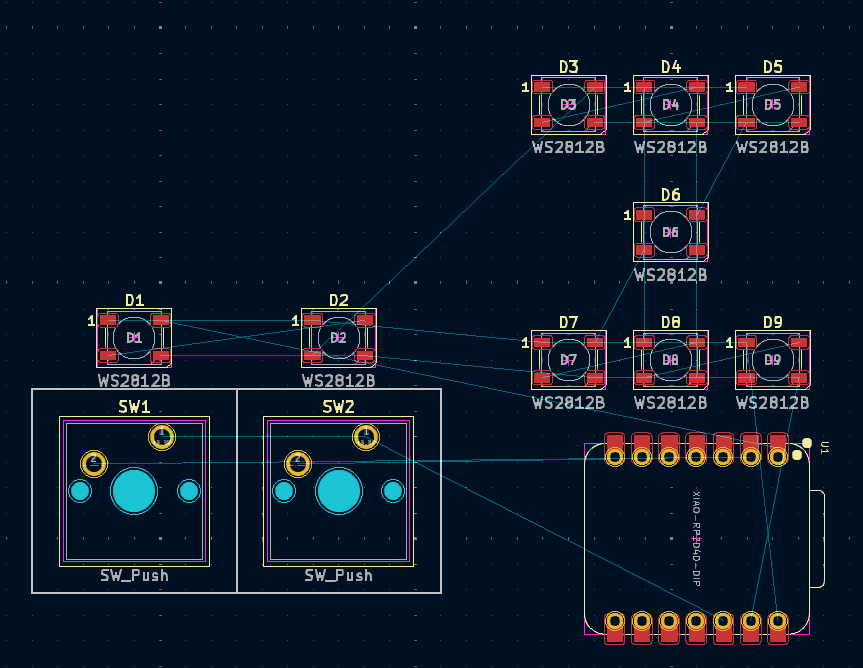
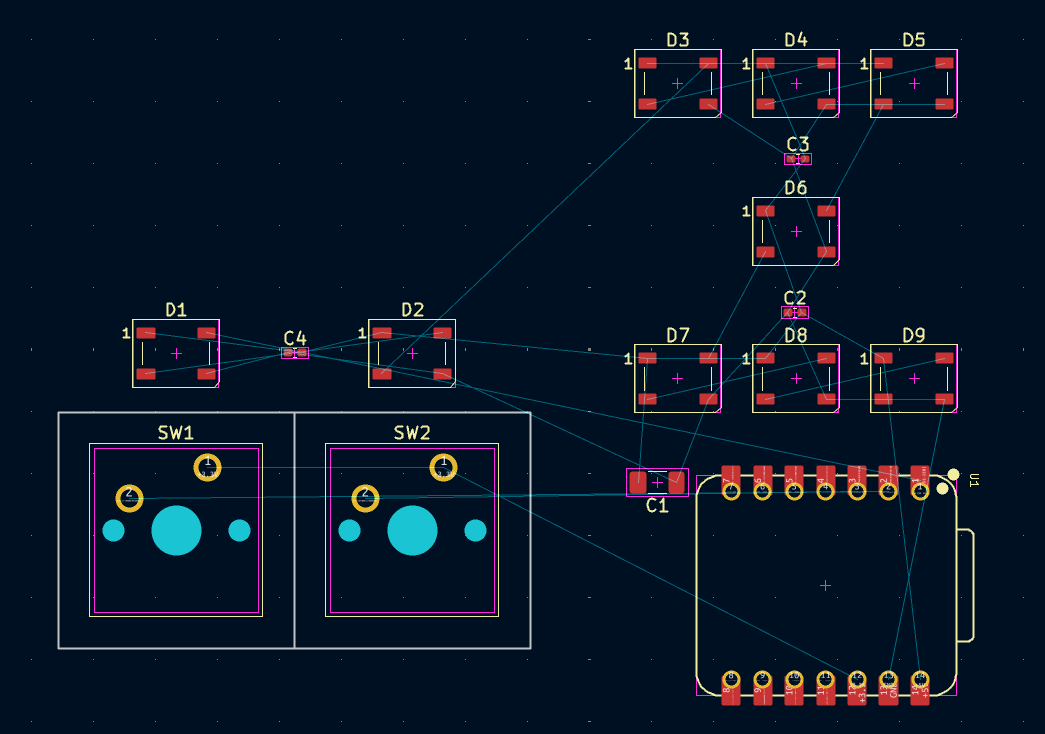
add more instructions and approved parts :fire: :fire: :fire: :fire: :fire:

diff --git a/website/src/pages/Parts.tsx b/website/src/pages/Parts.tsx
@@ -1,3 +1,5 @@
+import ALink from "../components/ALink";
+
 export default function Parts() {
   return (
     <div className="flex flex-col items-center justify-center w-full p-4 mt-16 text-xl text-black">
@@ -7,9 +9,19 @@ export default function Parts() {
 
         <h2 className="mb-2 text-xl font-semibold">MCU:</h2>
         <ul className="mb-4 list-disc list-inside">
-          <li>Xiao RP2040</li>
-          <li>Bare RP2040 (PCBA otherwise you solder)</li>
-          <li></li>
+          <li>
+            <ALink href="https://www.seeedstudio.com/XIAO-RP2040-v1-0-p-5026.html">Xiao RP2040</ALink>
+          </li>
+          <li>
+            <ALink href="https://www.seeedstudio.com/XIAO-ESP32S3-p-5627.html">Xiao ESP32-S3</ALink>
+          </li>
+          <li>ESP32-C3 Super Mini</li>
+          <li>
+            <ALink href="https://jlcpcb.com/partdetail/RaspberryPi-RP2040/C2040">Bare RP2040 (PCBA)</ALink>
+          </li>
+          <li>
+            <ALink href="https://www.aliexpress.com/item/1005006478706085.html">ESP32-S3-DevKitC-1</ALink>
+          </li>
         </ul>
 
         <h2 className="mb-2 text-xl font-semibold" id="neopixels">
@@ -19,43 +31,60 @@ export default function Parts() {
           <li>WS2812B-5050</li>
           <li>SK6812-5050</li>
           <li>SK6812MINI-EA</li>
+          <li>
+            <ALink href="https://www.lcsc.com/product-detail/RGB-LEDs-Built-in-IC_XINGLIGHT-XL-1615RGBC-WS2812B_C5349954.html">
+              XL-1615RGBC-WS2812B
+            </ALink>
+          </li>
+          <li>
+            <ALink href="https://www.lcsc.com/product-detail/RGB-LEDs-Built-in-IC_OPSCO-Optoelectronics-SKC6812RGBW-WS-B_C5380879.html?s_z=n_rgbw">
+              SKC6812RGBW-WS-B
+            </ALink>
+          </li>
         </ul>
         <p className="mb-4">* If I'm soldering: max. 50 neopixels</p>
         <p className="mb-4">* If soldering yourself: no limit but please dont go crazy with it</p>
 
         <p className="mb-4">Decoupling caps are optional but recommended.</p>
 
-        <h2 className="mb-2 text-xl font-semibold">USB PD Logic:</h2>
+        <h2 className="mb-2 text-xl font-semibold">Other misc parts:</h2>
+
+        <p className="mb-4">Generally most parts are ok for you to use, try get them from somewhere cheap like Aliexpress or LCSC.</p>
+
+        <p className="mb-4">
+          Since we are using PCBA from JLCPCB, if the parts can't be assemble with economic PCBA, you will have to solder them at home.
+        </p>
+
+        <p className="mb-4">
+          Parts below has gotten explicit permissions from mohid to use. If you want to make sure your part is ok to use, please ask in #pixeldust.
+        </p>
+
         <ul className="mb-4 list-disc list-inside">
+          <li>Resistors</li>
+          <li>Capacitors</li>
+          <li>Buttons/Switches</li>
           <li>
             A usb controller. Ex:
-            <a
-              href="https://www.lcsc.com/product-detail/USB-Converters_STMicroelectronics-STUSB4500QTR_C2678061.html?s_z=n_STUSB4500QTR"
-              target="_blank"
-              rel="noopener noreferrer"
-              className="text-blue-500 hover:underline">
-              STMicroelectronics STUSB4500QTR
-            </a>
+            <ALink href="https://jlcpcb.com/partdetail/Stmicroelectronics-STUSB4500QTR/C2678061">STMicroelectronics STUSB4500QTR</ALink>
           </li>
           <li>
             A USB C port. Ex:{" "}
-            <a
-              href="https://www.lcsc.com/product-detail/USB-Connectors_Amphenol-ICC-12402012E212A_C5150972.html?s_z=n_12402012E212A"
-              target="_blank"
-              rel="noopener noreferrer"
-              className="text-blue-500 hover:underline">
-              Amphenol ICC 12402012E212A
-            </a>
+            <ALink href="https://www.lcsc.com/product-detail/USB-Connectors_SHOU-HAN-TYPE-C-6P_C456012.html">SHOU HAN TYPE-C 6P</ALink>
           </li>
           <li>
             Buck converter to step down the voltage to 5V. Ex:{" "}
-            <a
-              href="https://www.lcsc.com/product-detail/DC-DC-Converters_Texas-Instruments-TPS568215RNNR_C473367.html"
-              target="_blank"
-              rel="noopener noreferrer"
-              className="text-blue-500 hover:underline">
-              Texas Instruments TPS568215RNNR
-            </a>
+            <ALink href="https://jlcpcb.com/partdetail/TexasInstruments-TPS54821RHLR/C57461">Texas Instruments TPS54821RHLR</ALink>
+          </li>
+          <li>AHT20 Temperature and Moisture sensor</li>
+          <li>
+            <ALink href="https://www.lcsc.com/product-detail/Accelerometers_TDK-InvenSense-ICM-42688-P_C1850418.html?s_z=n_C1850418">
+              TDK InvenSense ICM-42688-P Accelerometer gyroscope
+            </ALink>
+          </li>
+          <li>
+            <ALink href="https://www.lcsc.com/product-detail/Pressure-Sensors_Bosch-Sensortec-BMP388_C779278.html?s_z=n_C779278">
+              Bosch Sensortec BMP388 Pressure Sensor
+            </ALink>
           </li>
         </ul>
 

diff --git a/website/src/pages/Guidelines.tsx b/website/src/pages/Guidelines.tsx
@@ -26,6 +26,11 @@ import afterComponentsMoved from "./after_components_moved.png";
 
 import decouplingCapacitors from "./decoupling_capacitors.png";
 
+import edgeCuts from "./edge_cuts.png";
+
+import ALink from "../components/ALink";
+import afterEdgeCuts from "./after_edge_cuts.png";
+
 const Guidelines = () => {
   return (
     <div className="flex flex-col items-center justify-center w-full p-4 mt-16 text-xl text-black">
@@ -191,23 +196,57 @@ const Guidelines = () => {
         <img src={updatePcb} alt="Update PCB" />
 
         <p className="mt-4">After updating the PCB, it should look like below. I chose the Cherry MX switches for the switches footprint.</p>
+        <small>surely i wont bankrupt mohid with the switches :clueless:</small>
         <img src={afterPcbUpdate} alt="After Update PCB" />
 
-        <p className="mt-4">Move your components around however you like it.</p>
+        <p className="mt-4">
+          Move your components around however you like it. Have your decoupling capacitors close to what they are for. The big value one should be
+          closer to the power source (the XIAO in this case), and the smaller ones can be closer to the neopixels
+        </p>
         <img src={afterComponentsMoved} alt="After Components Moved" />
+
+        <p className="mt-4">
+          Don't forget to add the edge cuts! This is the outline of your PCB. It should be a closed loop and not intersect with anything else.
+          <br />
+          To add edge cuts, click on the "Edge.Cuts" layer on the right side of the screen. Then click on the "Draw Rectangle" button. Draw a
+          rectangle around your PCB. It should look like this:
+        </p>
+        <img className="m-8" src={edgeCuts} alt="Edge Cuts" />
+        <img src={afterEdgeCuts} alt="After Edge Cuts" />
+
+        <small>
+          i gtg to my english class, you can get more directions here, pcb routing is very general so most stuff from hackpad applies here as well:{" "}
+          <ALink href="https://hackpad.hackclub.com/guide#:~:text=There%20is%20a%20front%20side%20and%20back%20side%20of%20the%20board.%20You%20can%20tell%20them%20apart%20by%20color">
+            hackpad guide
+          </ALink>
+        </small>
 
         <h2 className="mt-8 mb-2 text-xl font-semibold">SUBMISSIONS:</h2>
         <p className="mt-4">
-          Make a PR to the GitHub repo:{" "}
-          <a href="https://github.com/m0hid/pixeldust" className="text-blue-500 hover:underline">
+          Fork the GitHub repo:{" "}
+          <a href="https://github.com/hackclub/pixeldust" className="text-blue-500 hover:underline">
             m0hid/pixeldust
           </a>
         </p>
-        <p className="mt-4">Then you should put a README with the format:</p>
-        <p className="mt-4">board-name:</p>
-        <p className="mt-4">slack-id:</p>
-        <p className="mt-4">wokwi-link:</p>
-        <p className="mt-4">Images and description of your board</p>
+
+        <p className="mt-4">
+          Press <code>.</code> on your keyboard to open online VS Code
+        </p>
+
+        <p className="mt-4">
+          In the submission folder, create a new folder with your board name. Copy README.md from the <code>!Template</code> folder and fill in your
+          info.
+        </p>
+
+        <p className="mt-4">Generate a PDF of your schematic and a BOM and add it in your submission folder!</p>
+
+        <p className="mt-4">
+          In your submission folder, create a new folder called <code>src</code>. This is where you will put your KiCad or any EDA files.
+        </p>
+        <p className="mt-4">
+          Create another folder called <code>production</code>. This is where you will put your Gerber files. If you have a different version from
+          your Wokwi project, put your firmware source code here too.
+        </p>
       </div>
     </div>
   );

diff --git a/website/src/components/ALink.tsx b/website/src/components/ALink.tsx
@@ -1,0 +1,9 @@
+import { ComponentProps } from "react";
+
+export default function ALink(props: ComponentProps<"a">) {
+  return (
+    <a className={`text-blue-500 hover:underline ${props.className}`} target="_blank" rel="noopener noreferrer" {...props}>
+      {props.children}
+    </a>
+  );
+}

diff --git a/submissions/!Template/README.md b/submissions/!Template/README.md
@@ -1,0 +1,19 @@
+---
+name: "FIRST LAST"
+slack_handle: "@SLACK HANDLE"
+github_handle: "@GITHUB HANDLE"
+tutorial: # Link to the tutorial if you used one
+wokwi: # Link to the Wokwi project
+---
+
+# YOUR PROJECT NAME
+
+<!-- Replace the wokwi link below with yours -->
+
+Wokwi link: [https://wokwi.com/projects/XXXXXX](https://wokwi.com/projects/XXXXXX)
+
+<!-- Describe your board in 2-3 sentences. What are you making? What will it do? Please add a lot of pictures here!! -->
+
+<!-- A simplified BOM table -->
+
+<!-- Tell us a little bit about your design process. What were some challenges? What helped? ***Totally optional*** -->
